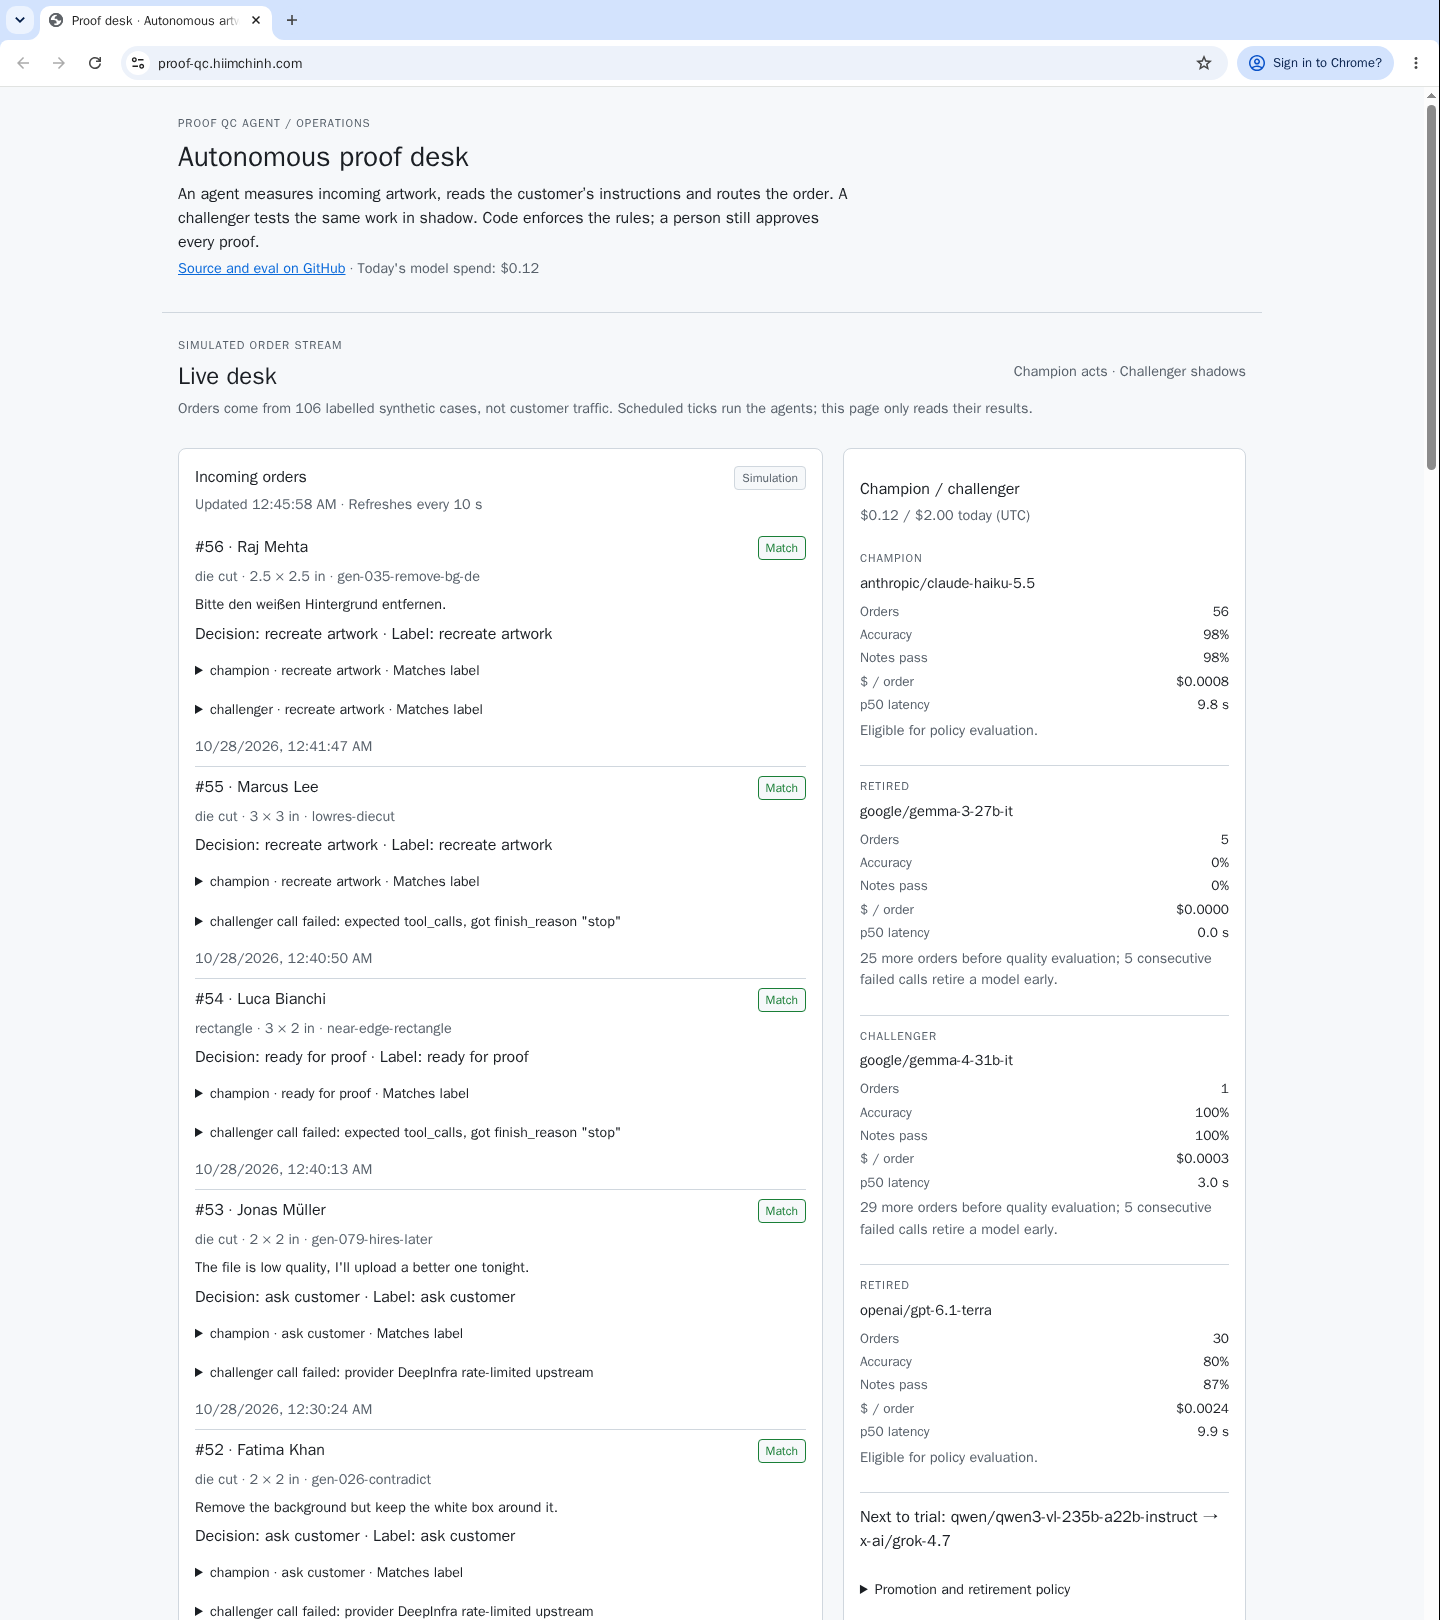
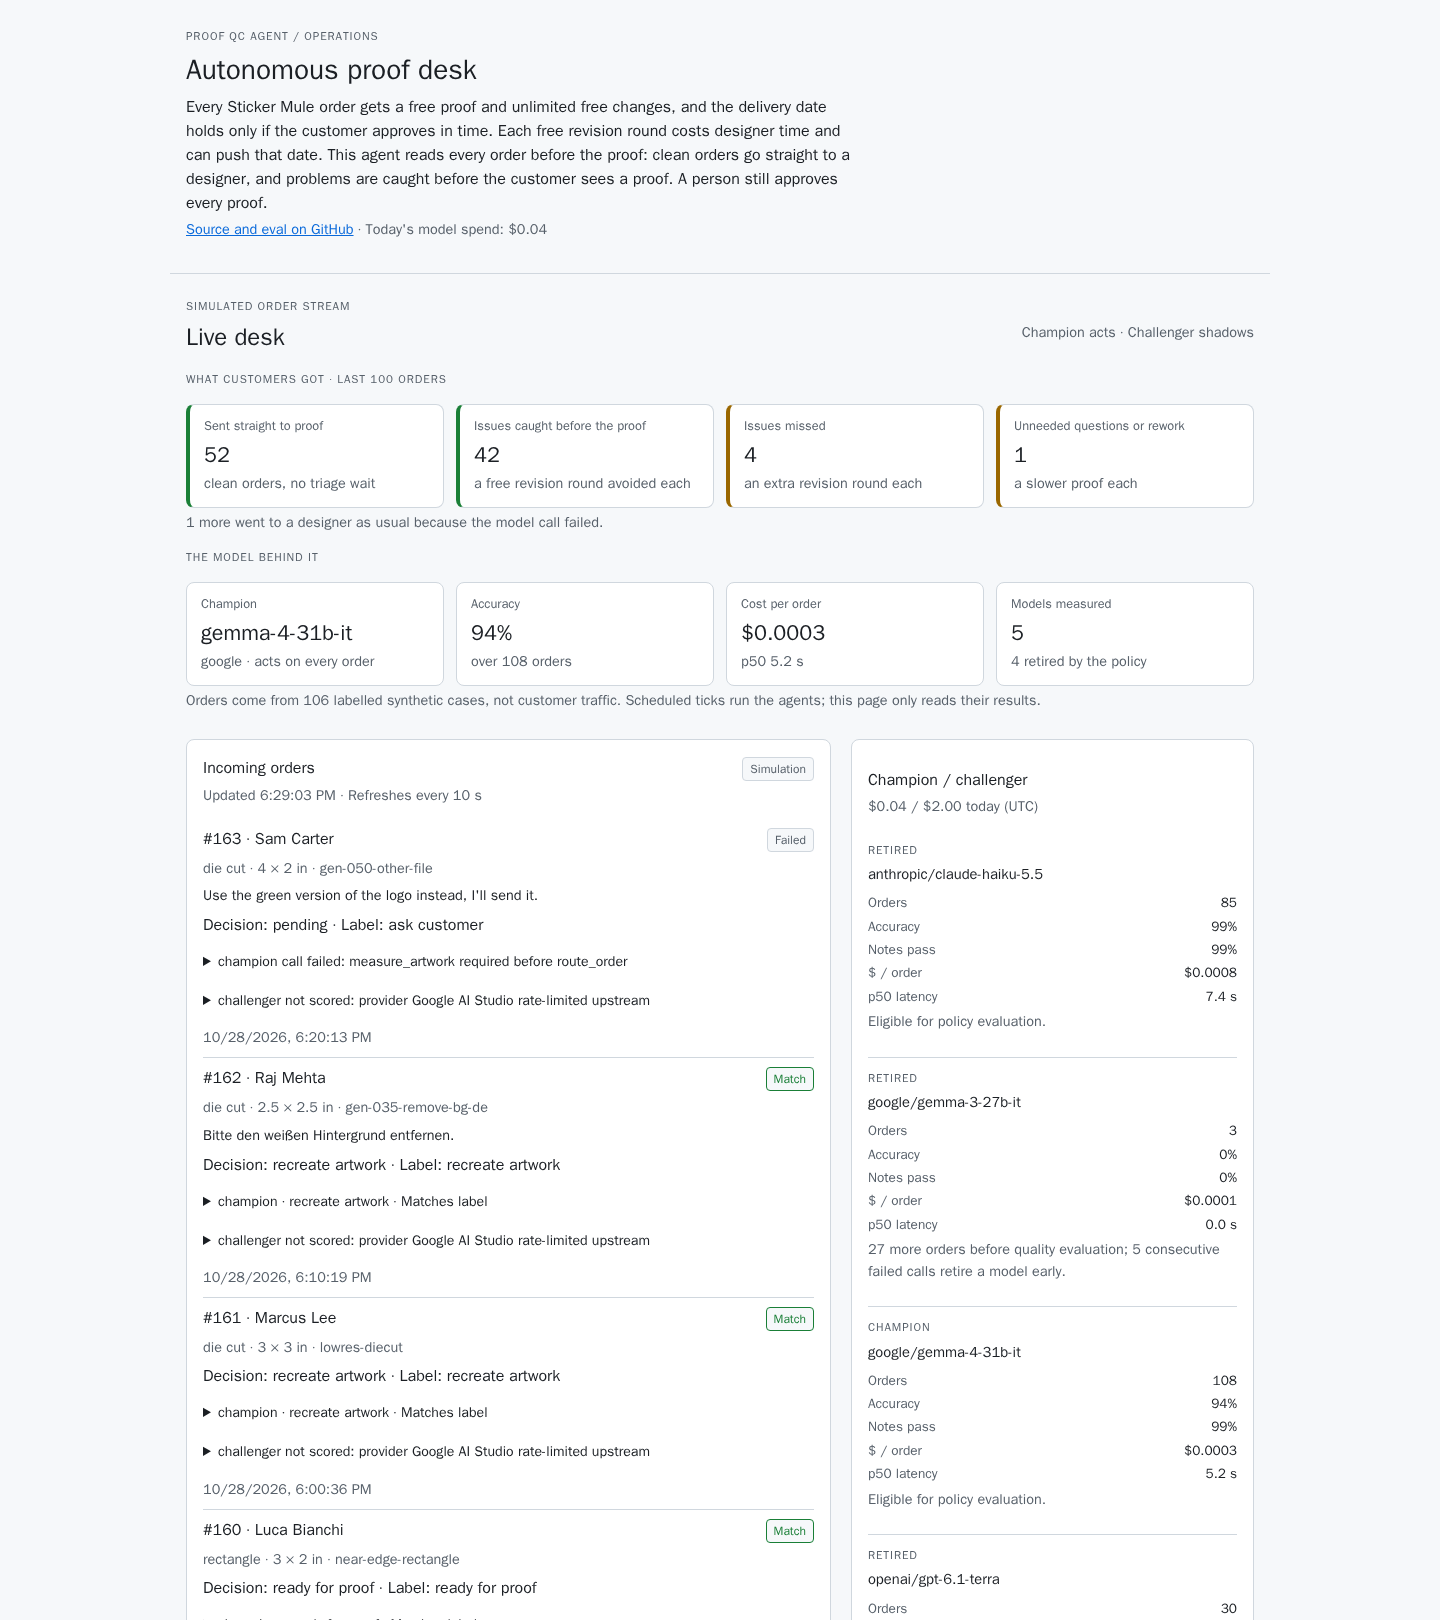
docs: refresh the live desk screenshot with the customer outcome strip

diff --git a/README.md b/README.md
@@ -1,5 +1,5 @@
 # proof-qc-agent
-[![Live desk: simulated orders routed by a champion agent while a challenger runs in shadow](docs/live-desk.png)](https://proof-qc.hiimchinh.com)
+[![Live desk: what customers got from the latest 100 simulated orders, then the model behind it](docs/live-desk.png)](https://proof-qc.hiimchinh.com)
 
 Live: **https://proof-qc.hiimchinh.com**. Agents work a simulated order stream every 10 minutes with nobody clicking. [Tool trace for one order](docs/tool-trace.png).
 
